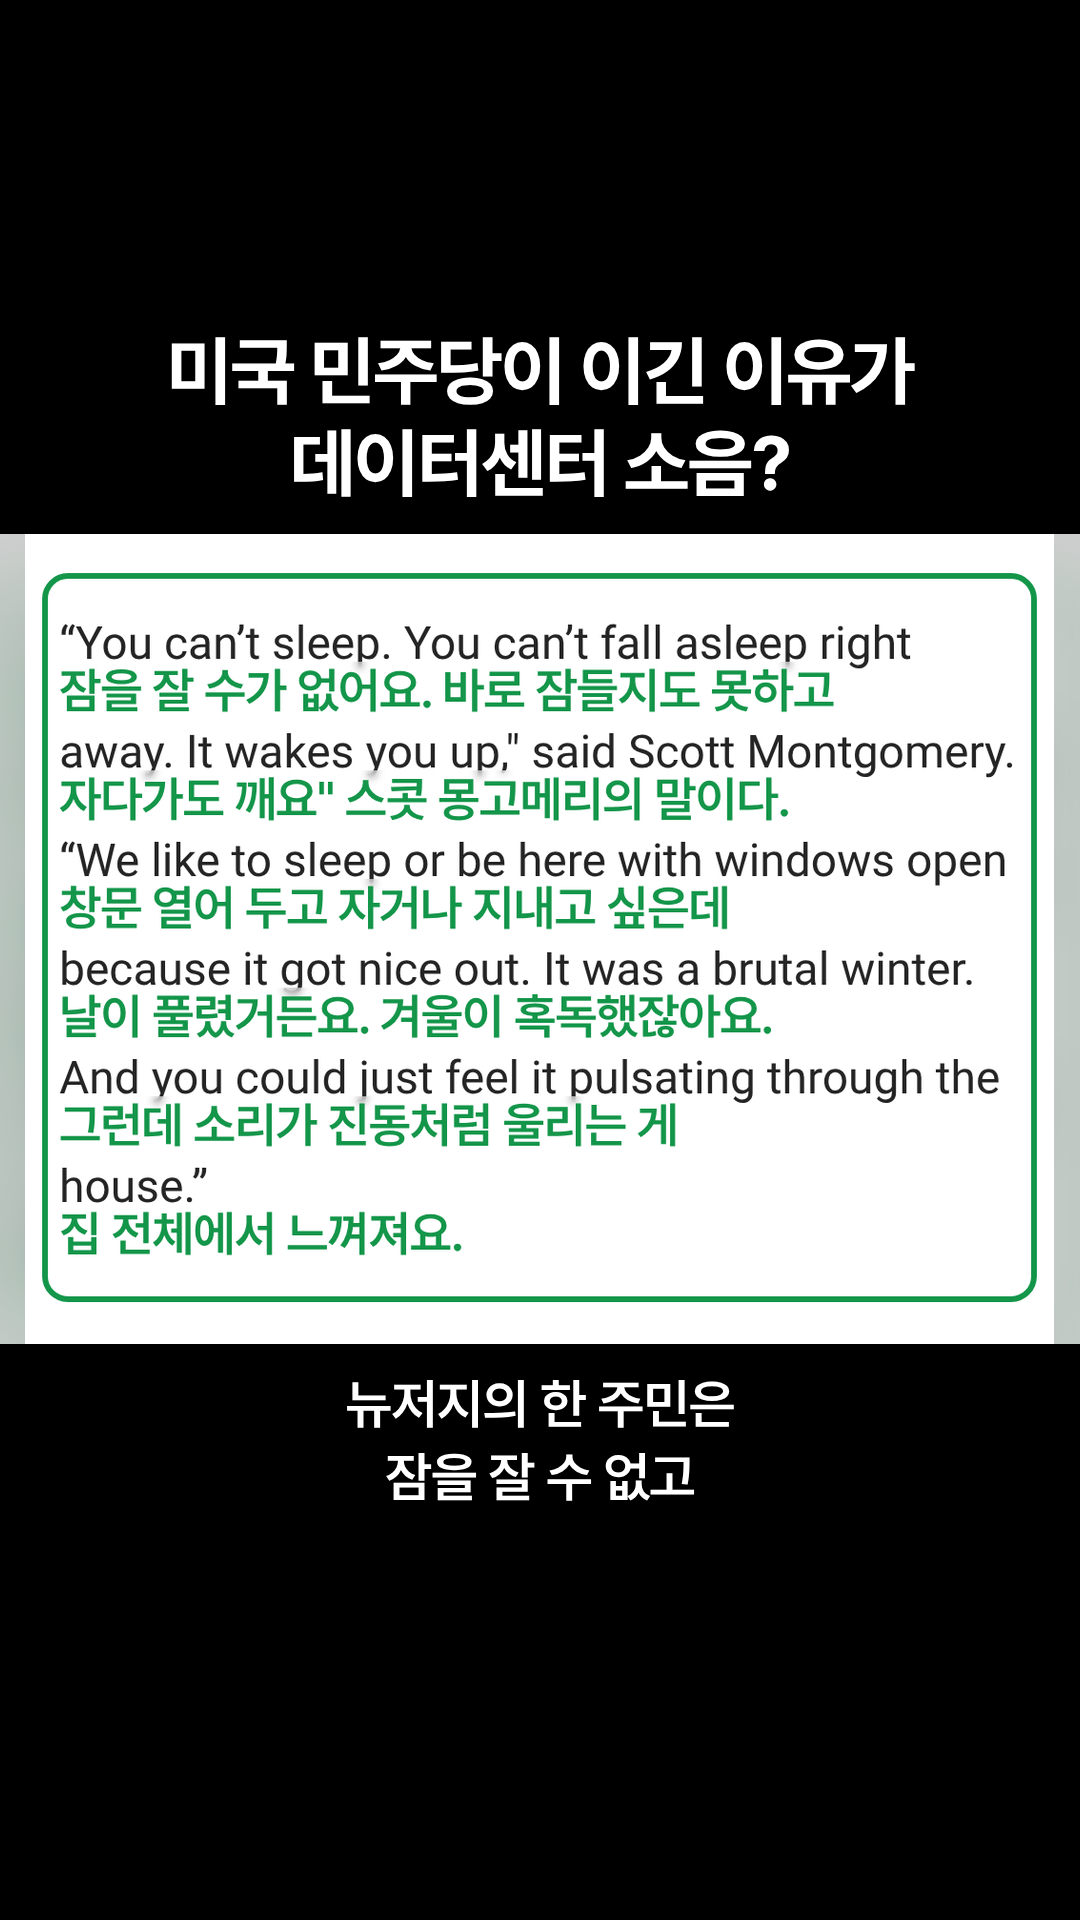
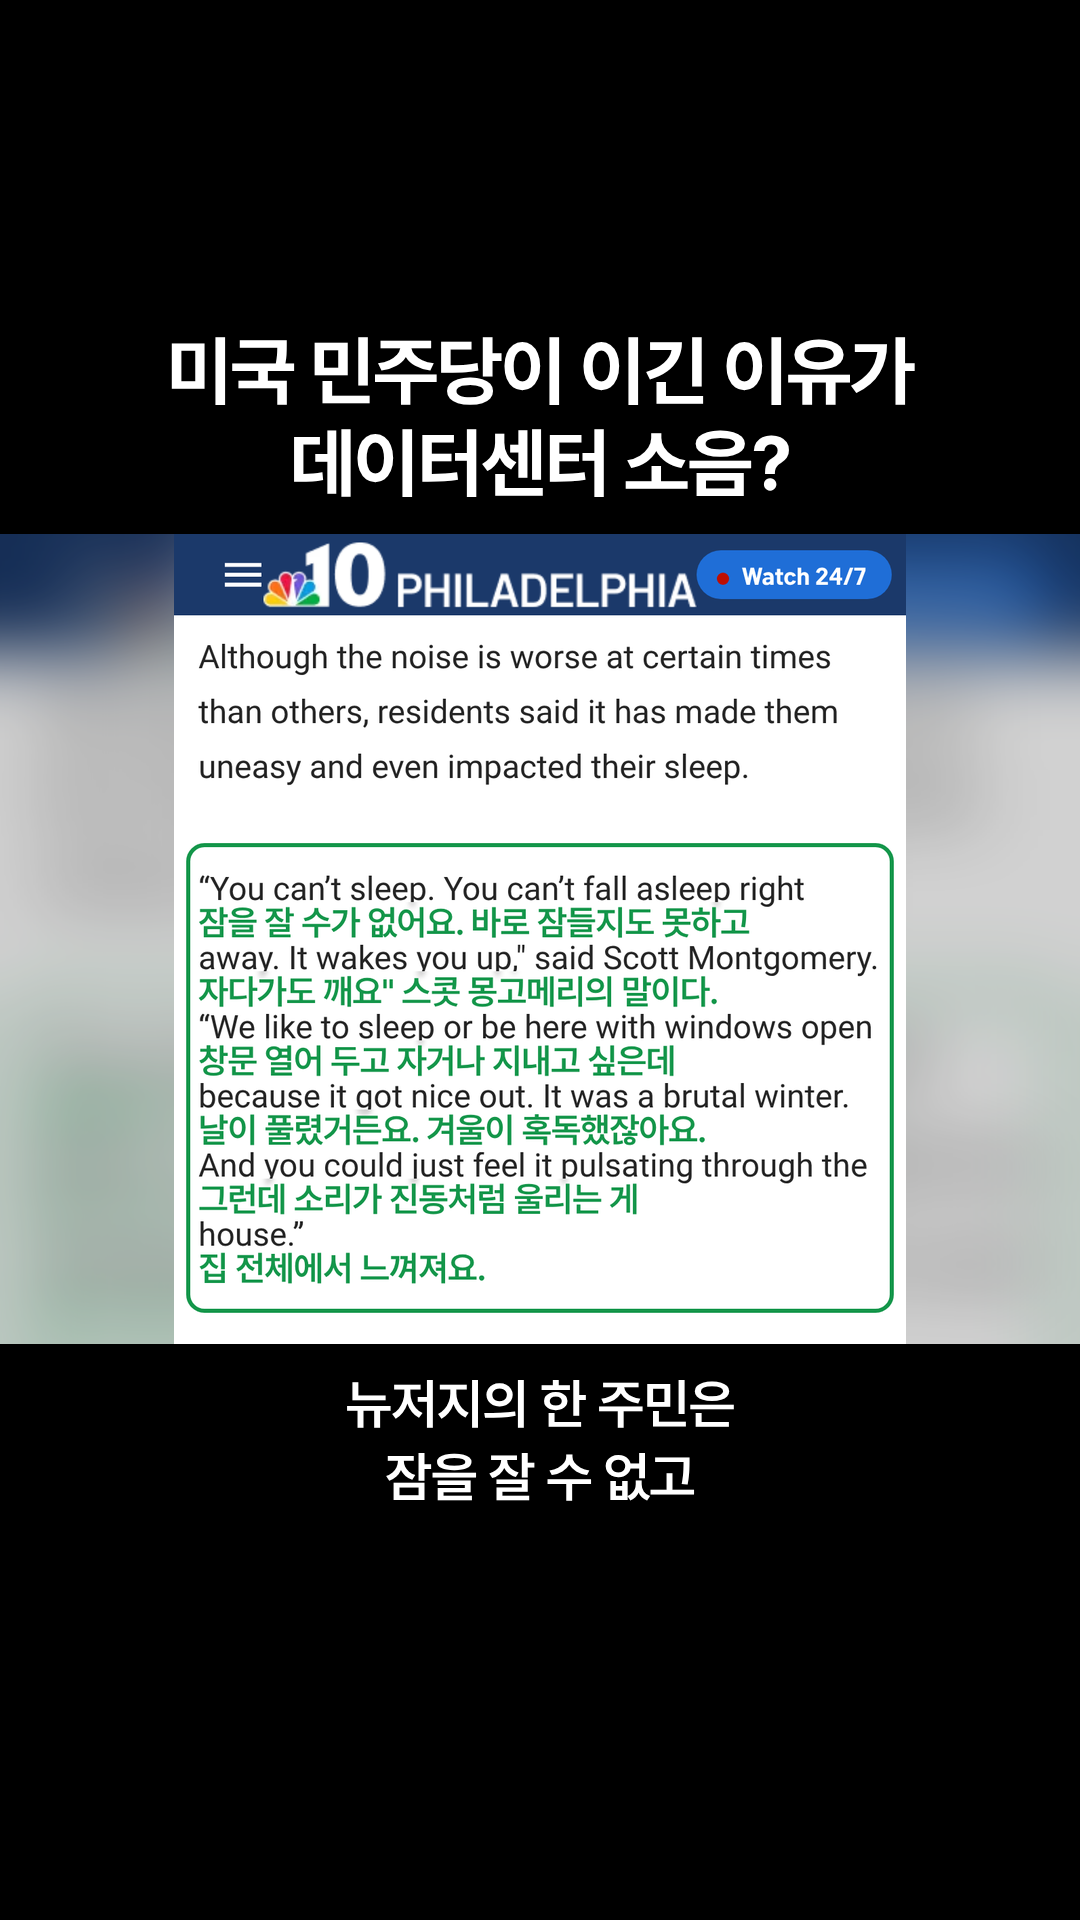
Interlinear mockup as a real phone-screen capture of the article
- newsmark.js: overlay mode keeps the article's spacing (optional 'lh'),
  'keep' sticky logo bars, 'view' phone-screen capture, per-page 'css'
- mockup shows the NBC10 logo bar and the preceding paragraph with the quote

Claude-Session: https://claude.ai/code/session_01DsCoKozrCPr6UJT5evXSTU

Changed region(s): [[0.0, 0.2812, 1.0, 0.7188]]

diff --git a/shorts-kit/capture/newsmark.js b/shorts-kit/capture/newsmark.js
@@ -8,7 +8,10 @@
 //   pos "before" puts the translation above (use for images/tables).
 //   "lines": ["줄1 번역", ...] instead of "tr" writes the Korean under each English line (interlinear);
 //   "fs" sets its font size (CSS px, default 17). The English lines found are printed so the
-//   translations can be matched to them.
+//   translations can be matched to them. "overlay": true keeps the article's own line spacing, so the Korean
+//   lies over the gap and partly over the next line ("lh": CSS px opens the spacing a little); "bg" sets its background opacity (default 0.3).
+// spec "css": extra CSS for that page. "keep": ["css"] keeps those sticky bars (e.g. the outlet's logo bar); "view": {"mark": id, "top": 160}
+//   takes a phone-screen (viewport) capture scrolled so that mark sits at "top" CSS px.
 // Output: <name>.png (1080 wide) and prints mark rects in output pixels (x3) for piece planning.
 const { chromium } = require('playwright');
 const fs = require('fs');
@@ -52,12 +55,12 @@ const CSS = `
     // scroll through once so lazy images load, then back to top
     for (let y = 0; y < (s.h || 2400); y += 500) { await page.evaluate(v => window.scrollTo(0, v), y); await page.waitForTimeout(250); }
     await page.evaluate(() => window.scrollTo(0, 0));
-    await page.addStyleTag({ content: CSS + (s.hide || []).map(h => `${h}{display:none !important}`).join('\n') });
-    const info = await page.evaluate(([marks, COLORS]) => {
+    await page.addStyleTag({ content: CSS + (s.hide || []).map(h => `${h}{display:none !important}`).join('\n') + (s.css || '') });
+    const info = await page.evaluate(([marks, COLORS, keep]) => {
       // drop overlays: anything fixed/sticky (cookie banners, sticky headers, floating players)
       document.querySelectorAll('body *').forEach(e => {
         const cs = getComputedStyle(e);
-        if ((cs.position === 'fixed' || cs.position === 'sticky') && !e.querySelector('h1, article'))
+        if ((cs.position === 'fixed' || cs.position === 'sticky') && !e.querySelector('h1, article') && !(keep.length && e.matches(keep.join(','))))
           e.style.setProperty('display', 'none', 'important');
       });
       const missing = [];
@@ -73,9 +76,10 @@ const CSS = `
           // interlinear: open up the line spacing, then put the Korean for each English line right under it
           const fs = parseFloat(getComputedStyle(el).fontSize);
           const kfs = m.fs || 17;
-          el.style.setProperty('line-height', Math.round(fs * 1.2 + kfs * 1.25 - 2) + 'px', 'important');
+          if (m.lh) el.style.setProperty('line-height', m.lh + 'px', 'important');
+          if (!m.overlay) el.style.setProperty('line-height', Math.round(fs * 1.2 + kfs * 1.25 - 2) + 'px', 'important');
+          el.style.paddingBottom = Math.round(kfs * 0.9) + 'px';  // room for the last Korean line inside the box
           el.style.position = 'relative';
-          el.style.paddingBottom = Math.round(kfs * 0.9) + 'px';
           const words = [];
           const walk = document.createTreeWalker(el, NodeFilter.SHOW_TEXT);
           while (walk.nextNode()) {
@@ -97,6 +101,7 @@ const CSS = `
             if (!m.lines[i]) return;
             const t = document.createElement('div'); t.className = 'x-ln'; t.textContent = m.lines[i];
             t.style.setProperty('--c', COLORS[m.color]); t.style.setProperty('--fs', kfs + 'px');
+            if (m.bg != null) t.style.background = `rgba(255,255,255,${m.bg})`;
             t.style.left = (l.left - eb.left - 4) + 'px'; t.style.top = (l.bottom - eb.top - 3) + 'px';
             el.appendChild(t);
           });
@@ -109,15 +114,25 @@ const CSS = `
         }
       }
       return { missing };
-    }, [s.marks || [], COLORS]);
+    }, [s.marks || [], COLORS, s.keep || []]);
     await page.evaluate(() => document.fonts.ready);
     await page.waitForTimeout(1000);
     const rects = await page.evaluate(() => {
       const r = {}; document.querySelectorAll('[data-kind]').forEach(e => {
         const b = e.getBoundingClientRect(); r[e.dataset.kind] = [Math.round((b.top + scrollY) * 3), Math.round((b.bottom + scrollY) * 3)]; });
       return r; });
-    const h = Math.min(s.h || 2400, await page.evaluate(() => document.documentElement.scrollHeight));
-    await page.screenshot({ path: path.join(out, name + '.png'), clip: { x: 0, y: 0, width: 360, height: h }, fullPage: true });
+    let h;
+    if (s.view) {
+      // phone-screen capture: scroll so the mark sits at view.top (CSS px) under the kept sticky header
+      await page.evaluate(([k, top]) => { const e = document.querySelector(`[data-kind="${k}"]`);
+        window.scrollTo(0, e.getBoundingClientRect().top + scrollY - top); }, [s.view.mark, s.view.top || 160]);
+      await page.waitForTimeout(800);
+      h = 780;
+      await page.screenshot({ path: path.join(out, name + '.png') });
+    } else {
+      h = Math.min(s.h || 2400, await page.evaluate(() => document.documentElement.scrollHeight));
+      await page.screenshot({ path: path.join(out, name + '.png'), clip: { x: 0, y: 0, width: 360, height: h }, fullPage: true });
+    }
     console.log(name, JSON.stringify({ h: h * 3, ...info, rects }));
     await page.close();
   }
